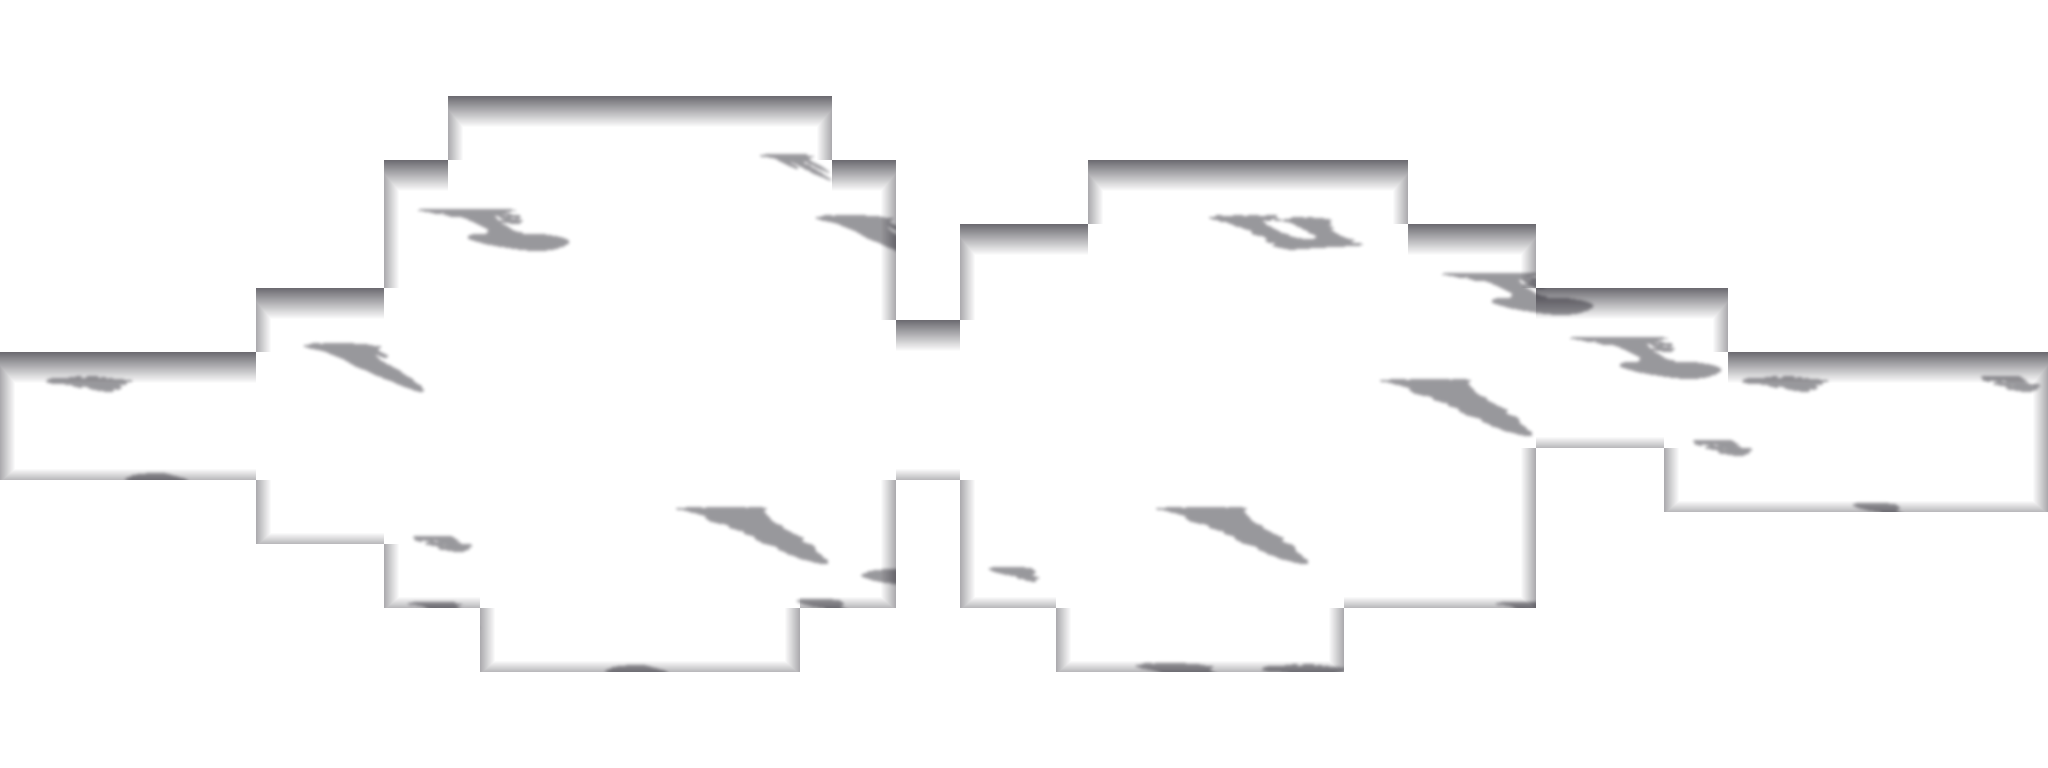
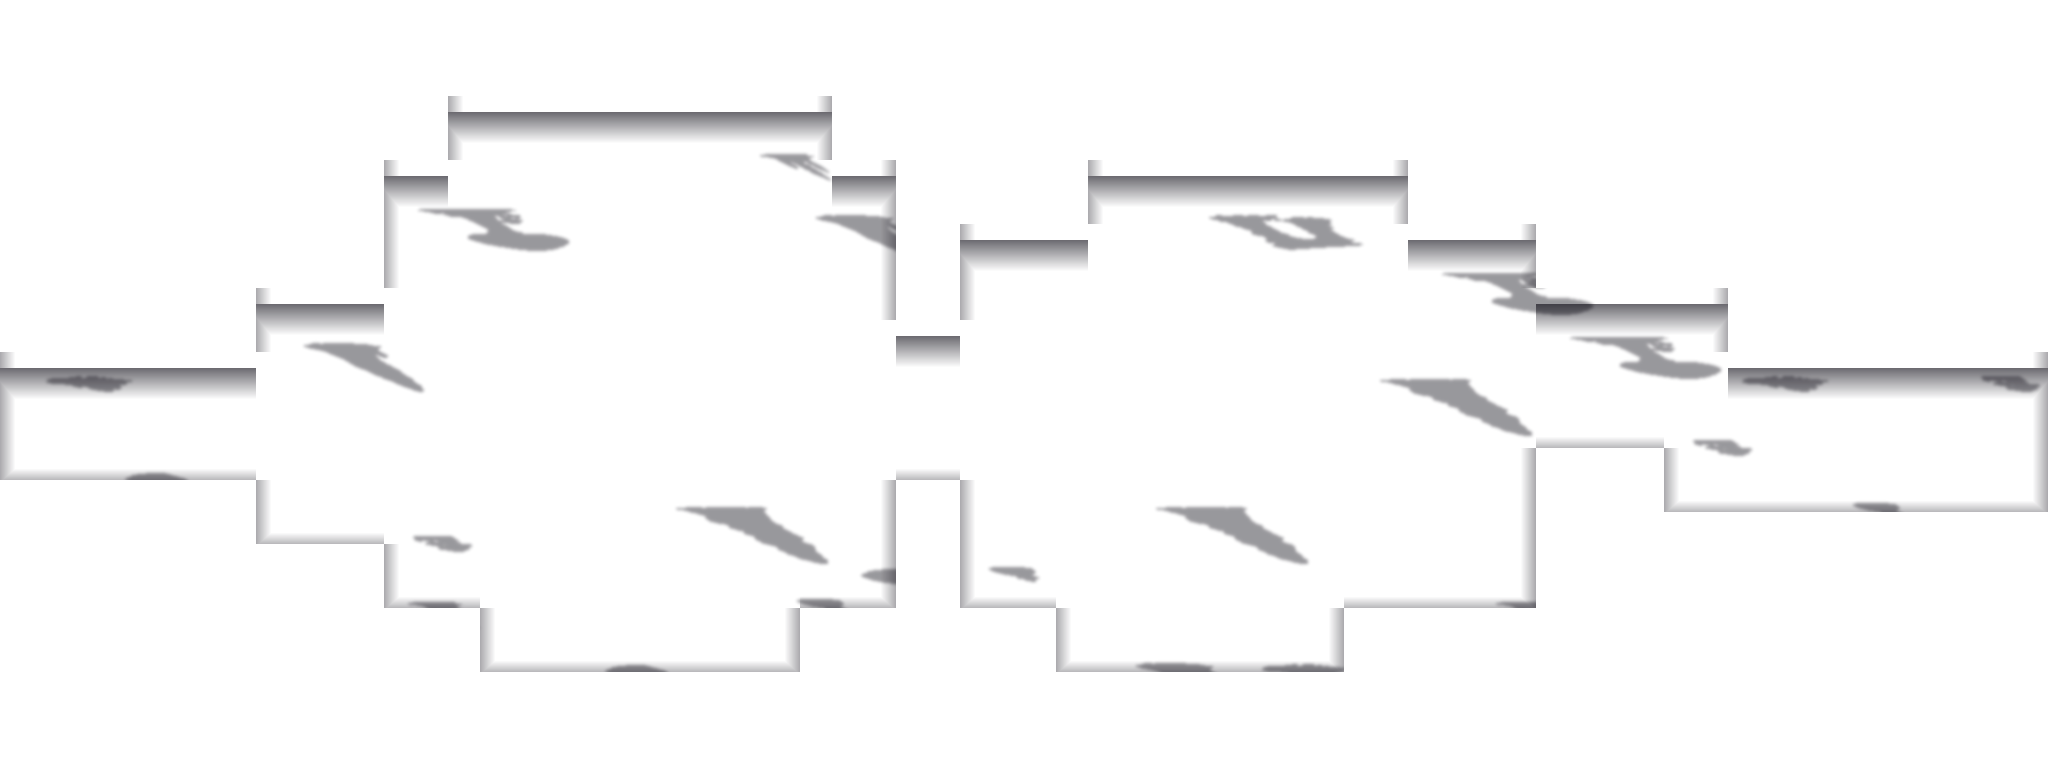
Pixel road: Sam's painted ceiling and shelf as the near rock
Sam sent two paintings (a stalactite ceiling lip, a stalagmite foreground shelf). They replace
the generated stalactite silhouettes: the ceiling across the top, the shelf along the bottom,
laid end to end with every other copy mirrored, sliding faster than the floor.

Also: the dark at the foot of a rock face now starts where the painted face meets the floor
(the tiles sit half a cell lower than the grid), and nobody can stand on that half cell.

Claude-Session: https://claude.ai/code/session_01QSk71K38AvMywZjp8GWjJx

diff --git a/public/pixel-road/index.html b/public/pixel-road/index.html
@@ -23,7 +23,7 @@
   Open it:  /pixel-road/index.html            (or the DM's door, /rehearsal?to=road)
             ?line=kenta,freia,scott           who walks, leader first (sprite slugs in /sprites)
             ?light=0                          the cave drawn fully lit, no darkness or glow
-            ?fg=0                             without the near rock (stalactites) in front
+            ?fg=0                             without the near rock (ceiling and shelf) in front
             ?road=road-01                     which stretch
 -->
 <style>
@@ -48,6 +48,7 @@ const rowFor = (dx, dy) => (2 - Math.round(Math.atan2(dy, dx) / (Math.PI / 4)) +
 
 const SPEED = 92;        // world pixels a second (a 32px cell is 5 ft)
 const GAP = 17;          // how far behind the one in front each follower walks: tight, per Sam
+const FACE_LIP = 14;      // how far a rock face hangs down into the floor cell below it
 const FOOT_RX = 7, FOOT_RY = 3; // a figure's footprint on the ground, for bumping into things
 
 const cv = document.getElementById("c"), ctx = cv.getContext("2d");
@@ -63,6 +64,9 @@ function cellAt(px, py) {
 }
 function solidAt(px, py) {
   if (!WALK.includes(cellAt(px, py))) return true;
+  // A rock face is painted half a cell lower than its cell (the tiles sit on the corners of the grid), so the top
+  // of the floor cell under one is still wall to the eye. Nobody stands there.
+  if (cellAt(px, py - FACE_LIP) === "a") return true;
   for (const o of road.objects) { const g = o.ground; if (px >= g[0] && px <= g[0] + g[2] && py >= g[1] && py <= g[1] + g[3]) return true; }
   return false;
 }
@@ -199,23 +203,25 @@ function drawLight() {
     g.addColorStop(0, col + "30"); g.addColorStop(1, col + "00"); ctx.globalAlpha = pulse; ctx.fillStyle = g; ctx.fillRect(x - r, y - r, 2 * r, 2 * r); }
   ctx.globalAlpha = 1; ctx.globalCompositeOperation = "source-over";
 }
-// THE NEAR ROCK. Stalactites hang across the top of the screen and a dark lip of rock rises along the bottom, both
-// closer to the eye than the party, so they slide past faster than the floor does. That difference in speed is
-// most of what makes the cave read as deep.
+// THE NEAR ROCK (art: Sam, 2026-11-22, a stalactite ceiling lip and a stalagmite shelf). The ceiling hangs across the
+// top of the screen and the shelf rises along the bottom, both closer to the eye than the party, so they slide past
+// faster than the floor does. That difference in speed is most of what makes the cave read as deep. Each painting is
+// one screen wide and is laid end to end with every other copy mirrored, so the joins meet themselves.
 function drawForeground() {
-  const im = fgImg.stalactites; if (!im || Q.get("fg") === "0") return;
-  ctx.setTransform(1, 0, 0, 1, 0, 0); ctx.imageSmoothingEnabled = false;
-  // top: how much of the screen's height the band takes, how much faster than the floor it slides
-  const band = (k, par, flip, show) => {
-    const sc = Math.max(1, Math.round(cv.height * k / im.height)), w = im.width * sc, h = im.height * sc, off = h * (1 - show);
-    let x = -((cam.x * cam.z * par) % w); if (x > 0) x -= w;
-    for (; x < cv.width; x += w) {
-      if (!flip) ctx.drawImage(im, x, -off, w, h);
-      else { ctx.save(); ctx.translate(x, cv.height + off); ctx.scale(1, -1); ctx.drawImage(im, 0, 0, w, h); ctx.restore(); }
+  if (Q.get("fg") === "0") return;
+  ctx.setTransform(1, 0, 0, 1, 0, 0); ctx.imageSmoothingEnabled = true; ctx.imageSmoothingQuality = "high";
+  const band = (im, par, bottom) => {
+    if (!im) return;
+    const w = cv.width, h = Math.round(im.height * w / im.width), y = bottom ? cv.height - h : 0;
+    const slide = cam.x * cam.z * par, first = Math.floor(slide / w);
+    for (let i = first; i * w - slide < cv.width; i++) {
+      const x = Math.round(i * w - slide);
+      if (i % 2 === 0) ctx.drawImage(im, x, y, w, h);
+      else { ctx.save(); ctx.translate(x + w, y); ctx.scale(-1, 1); ctx.drawImage(im, 0, 0, w, h); ctx.restore(); }
     }
   };
-  band(0.36, 1.35, false, 0.72);
-  band(0.50, 1.7, true, 0.42);
+  band(fgImg.ceiling, 1.3, false);
+  band(fgImg.shelf, 1.6, true);
 }
 function frame(now) {
   const dt = Math.min(0.05, (now - last) / 1000 || 0); last = now;
@@ -248,13 +254,7 @@ function frame(now) {
   ground = await img(BASE + road.ground);
   WALK = road.walkable || "w";
   if (road.shade) shade = await img(BASE + road.shade);
-  for (const [k, f] of Object.entries(road.foreground || {})) {
-    // The near rock is seen against the light, so it is drawn as a plain dark shape, whatever colour the art is.
-    const im = await img(BASE + f); if (!im) continue;
-    const c = document.createElement("canvas"); c.width = im.width; c.height = im.height; const x = c.getContext("2d");
-    x.drawImage(im, 0, 0); x.globalCompositeOperation = "source-in"; x.fillStyle = "#05040b"; x.fillRect(0, 0, c.width, c.height);
-    fgImg[k] = c;
-  }
+  for (const [k, f] of Object.entries(road.foreground || {})) fgImg[k] = await img(BASE + f);
   for (const k of new Set(road.objects.map((o) => o.kind))) objImg[k] = await img(BASE + "objects/" + k + ".png");
   heroes = (await Promise.all(LINE.map(loadHero))).filter(Boolean);
   if (!ground || !heroes.length) { document.body.innerHTML = '<p style="color:#a99;font:14px Georgia;padding:2em">The road could not be drawn.</p>'; return; }
@@ -269,7 +269,7 @@ function frame(now) {
     path = findPath(heroes[0].x, heroes[0].y, wx, wy);
   });
   // For poking at it from the console and for a browser test. The walk check itself is lib/pixel-road.test.ts.
-  window.__road = { road, heroes, findPath, canStand, go: (x, y) => { path = findPath(heroes[0].x, heroes[0].y, x, y); return path.length; }, idle: () => !path.length };
+  window.__road = { road, heroes, objImg, findPath, canStand, go: (x, y) => { path = findPath(heroes[0].x, heroes[0].y, x, y); return path.length; }, idle: () => !path.length };
   requestAnimationFrame((t) => { last = t; frame(t); });
 })();
 </script>

diff --git a/lib/pixel-road.test.ts b/lib/pixel-road.test.ts
@@ -6,7 +6,7 @@ import { describe, expect, it } from "vitest"
 // On the painted plates the walkable floor is a hand-made mask. On a pixel road it comes with the map, in
 // road.json, so it can be proved from the file alone: the way in reaches the way out on floor, with a figure's
 // footprint, round every prop. The footprint numbers and the rule below are the page's own
-// (public/pixel-road/index.html: FOOT_RX, FOOT_RY, solidAt, canStand); if those change, change them here.
+// (public/pixel-road/index.html: FOOT_RX, FOOT_RY, FACE_LIP, solidAt, canStand); if those change, change them here.
 type Road = {
   id: string; walkable?: string; tile: number; cols: number; rows: number; ground: string; grid: string[]
   objects: { kind: string; x: number; y: number; w: number; h: number; ground: [number, number, number, number] }[]
@@ -14,12 +14,14 @@ type Road = {
 }
 const ROOT = join("public", "pixel-road")
 const roads = readdirSync(ROOT).filter((d) => existsSync(join(ROOT, d, "road.json")))
-const FOOT_RX = 7, FOOT_RY = 3, STEP = 16
+const FOOT_RX = 7, FOOT_RY = 3, STEP = 16, FACE_LIP = 14
 
 function walker(road: Road) {
   const solid = (px: number, py: number) => {
     const c = Math.floor(px / road.tile), r = Math.floor(py / road.tile)
     if (r < 0 || c < 0 || r >= road.rows || c >= road.cols || !(road.walkable ?? "w").includes(road.grid[r][c])) return true
+    const up = Math.floor((py - FACE_LIP) / road.tile)
+    if (up >= 0 && road.grid[up][c] === "a") return true // the face hangs half a cell into the floor below it
     return road.objects.some(({ ground: g }) => px >= g[0] && px <= g[0] + g[2] && py >= g[1] && py <= g[1] + g[3])
   }
   const canStand = (x: number, y: number) => !solid(x - FOOT_RX, y) && !solid(x + FOOT_RX, y) && !solid(x, y - FOOT_RY) && !solid(x, y + FOOT_RY) && !solid(x, y)

diff --git a/scripts/pixel-road/bake.py b/scripts/pixel-road/bake.py
@@ -9,7 +9,7 @@ config.json:
     "grid": "grid.txt",                        the rows get_map prints for the same cells
     "export": "x/",                            the unzipped PixelLab export (objects/manifest.json + PNGs)
     "kinds": {"name prefix": "kind", ...},     PixelLab object name -> short kind used for the file name
-    "foreground": {"stalactites": "stalactites.png"},
+    "foreground": {"ceiling": "art/ceiling.webp", "shelf": "art/shelf.webp"},
     "entry": {...}, "exit": {...}, "landmarks": [...], "glow": {...} }
 
 What it writes:
@@ -36,6 +36,7 @@ def main():
     out = os.path.join("public", "pixel-road", rid)
     if os.path.isdir(os.path.join(out, "objects")): shutil.rmtree(os.path.join(out, "objects"))
     os.makedirs(os.path.join(out, "objects"), exist_ok=True)
+    if os.path.isdir(os.path.join(out, "fg")): shutil.rmtree(os.path.join(out, "fg"))
     os.makedirs(os.path.join(out, "fg"), exist_ok=True)
     rows, cols = cfg["rows"], cfg["cols"]
     W, H = cols * T, rows * T
@@ -73,9 +74,10 @@ def main():
             if at(cx, cy) not in FLOOR: continue
             y0, x0 = cy * T, cx * T
             if at(cx, cy - 1) in ROCK:   # the foot of a rock face: the deepest dark, reaching well out
-                a[y0:y0 + T, x0:x0 + T] = np.maximum(a[y0:y0 + T, x0:x0 + T], ramp(T, 150)[:, None])
-                if at(cx, cy + 1) in FLOOR:
-                    a[y0 + T:y0 + T + 12, x0:x0 + T] = np.maximum(a[y0 + T:y0 + T + 12, x0:x0 + T], 0)
+                # The face is painted half a cell lower than its cell (tiles sit on the grid's corners), so the
+                # dark starts half a cell down, where the face meets the floor, not on the face itself.
+                ya, yb = y0 + T // 2, min(H, y0 + T // 2 + T)
+                a[ya:yb, x0:x0 + T] = np.maximum(a[ya:yb, x0:x0 + T], ramp(T, 150)[:yb - ya, None])
             if at(cx - 1, cy) in ROCK: a[y0:y0 + T, x0:x0 + 16] = np.maximum(a[y0:y0 + T, x0:x0 + 16], ramp(16, 85)[None, :])
             if at(cx + 1, cy) in ROCK: a[y0:y0 + T, x0 + 16:x0 + T] = np.maximum(a[y0:y0 + T, x0 + 16:x0 + T], ramp(16, 85)[::-1][None, :])
             if at(cx, cy + 1) in ROCK: a[y0 + 20:y0 + T, x0:x0 + T] = np.maximum(a[y0 + 20:y0 + T, x0:x0 + T], ramp(12, 70)[::-1][:, None])
@@ -104,7 +106,8 @@ def main():
 
     fg = {}
     for k, f in (cfg.get("foreground") or {}).items():
-        shutil.copy(p(f), os.path.join(out, "fg", k + ".png")); fg[k] = "fg/" + k + ".png"
+        ext = os.path.splitext(f)[1] or ".png"
+        shutil.copy(p(f), os.path.join(out, "fg", k + ext)); fg[k] = "fg/" + k + ext
 
     road = {"_": "Baked by scripts/pixel-road/bake.py from the PixelLab map below; do not edit by hand. ground.png has the props painted in; objects/ holds the same props again so a figure can stand behind one.",
             "id": rid, "name": cfg["name"], "pixellabMapId": cfg["pixellabMapId"], "tile": T, "cols": cols, "rows": rows,

diff --git a/scripts/pixel-road/README.md b/scripts/pixel-road/README.md
@@ -11,7 +11,7 @@ Design of record: `claude/Pixel_Road_Hybrid_2026-11-22.md` (project doc). This f
 | `ground.png` | The whole stretch at 32px a cell, props painted in. |
 | `shade.png` | Depth as one see-through layer: the dark at the foot of every rock face, and the shadow each prop throws. |
 | `objects/<kind>.png` | The same props again, one file per kind, so a figure can stand behind one. |
-| `fg/stalactites.png` | The near rock the page hangs in front of everything (drawn as a dark shape, sliding faster than the floor). |
+| `fg/ceiling.webp`, `fg/shelf.webp` | The near rock the page hangs in front of everything: Sam's paintings of a stalactite ceiling lip and a stalagmite shelf (2026-11-22), kept in `scripts/pixel-road/art/`. They slide faster than the floor. |
 
 Everything in that folder is written by `bake.py`. Do not edit it by hand; change the map in PixelLab and bake again.
 
@@ -21,7 +21,7 @@ Everything in that folder is written by `bake.py`. Do not edit it by hand; chang
 2. **Things that stand over the figures**: spires, fangs and zurkhwood four to six cells tall. Figures walk behind them.
 3. **Shadow**: `shade.png`.
 4. **A close camera**: about eight and a half cells of height on screen.
-5. **Near rock**: stalactites across the top and a lip along the bottom that slide faster than the floor.
+5. **Near rock**: a painted ceiling of stalactites across the top and a shelf of stalagmites along the bottom that slide faster than the floor.
 
 ## Baking `road-01` (PixelLab map `1c47eece-3986-4b2c-9501-3ad0b47fe44e`, "Road 01 - Tunnel out of Velkynvelve (cavern)")
 
@@ -31,7 +31,7 @@ picture paths are placeholders: the pictures come from PixelLab each time and ar
 1. Crops: four `view_map` calls, 16 cells wide and the full height. A crop that size comes back at full size; the whole map comes back at half.
 2. Grid: the rows `get_map` prints for the same cells (`road-01.grid.txt`).
 3. Export: `get_map(export="pixellab")`, unzipped. Only `objects/` is used.
-4. Foreground: the object's own PNG from `/mcp/objects/<id>/download`.
+4. Foreground: `art/ceiling.webp` and `art/shelf.webp` (one screen wide each, see-through; any stretch can reuse them).
 
 The export ZIP's own picture of the ground is a blank 1x1 until the map has been saved once in Map Workshop, and
 its `map.json` has no cell grid, which is why steps 1 and 2 are done this way.
